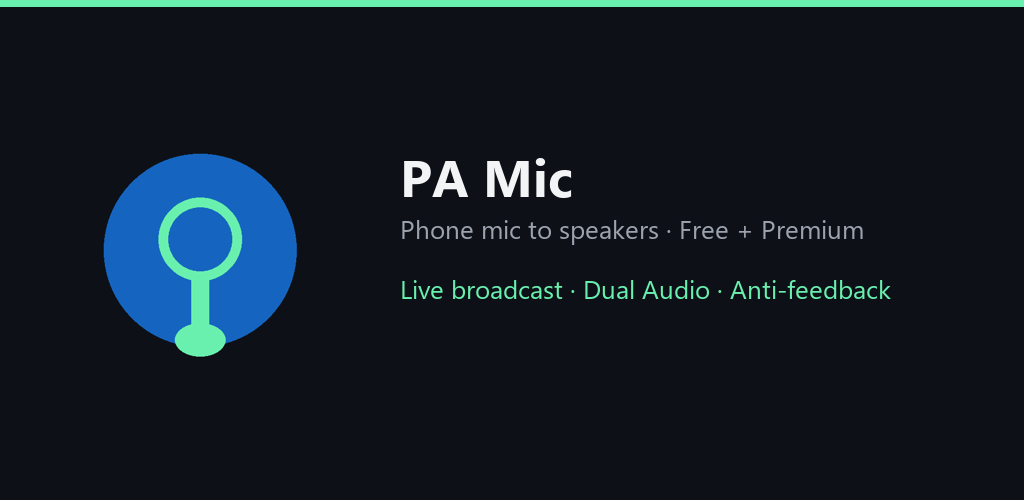
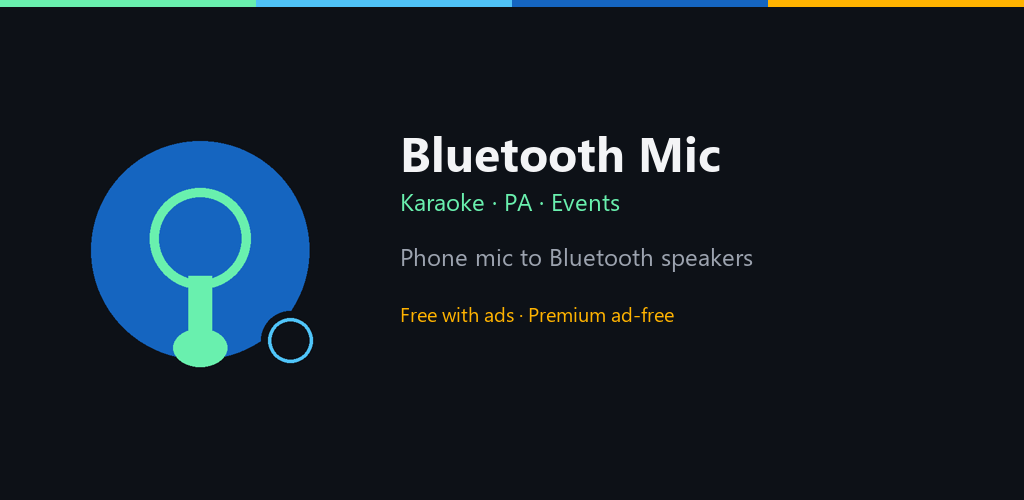
Rename branding to Bluetooth Mic - Karaoke and PA

diff --git a/index.html b/index.html
@@ -3,10 +3,10 @@
 <head>
   <meta charset="utf-8" />
   <meta name="viewport" content="width=device-width, initial-scale=1" />
-  <title>PA Mic — phone microphone to speakers</title>
-  <meta name="description" content="PA Mic by Lucky Tools. Speak into your phone and broadcast your voice to Bluetooth or phone speakers. Free with ads, or Premium ad-free." />
-  <meta property="og:title" content="PA Mic" />
-  <meta property="og:description" content="Turn your phone into a PA mic for outdoor speaking and events." />
+  <title>Bluetooth Mic - Karaoke &amp; PA — phone mic to speakers</title>
+  <meta name="description" content="Bluetooth Mic by Lucky Tools. Karaoke, PA and events — speak into your phone, play on Bluetooth speakers. Free with ads or Premium ad-free." />
+  <meta property="og:title" content="Bluetooth Mic - Karaoke &amp; PA" />
+  <meta property="og:description" content="Phone mic to Bluetooth speakers for karaoke, parties and outdoor speaking." />
   <meta property="og:image" content="assets/feature_graphic.png" />
   <link rel="stylesheet" href="styles.css" />
   <link rel="icon" type="image/png" href="assets/icon_512.png" />
@@ -17,7 +17,7 @@
     <div class="inner">
       <a class="brand" href="index.html">
         <span class="brand-mark"><img src="assets/icon_512.png" alt="" width="40" height="40" /></span>
-        PA Mic
+        Bluetooth Mic
       </a>
       <nav class="nav" aria-label="Main">
         <a href="index.html" aria-current="page">Home</a>
@@ -32,17 +32,17 @@
   <main class="wrap">
     <section class="hero">
       <div>
-        <h1>Your phone is the mic. Speakers do the rest.</h1>
+        <h1>Bluetooth microphone for karaoke, PA &amp; events</h1>
         <p class="lede">
-          <strong>PA Mic</strong> routes your voice from the phone microphone to connected
-          speakers — great for outdoor talks, yard sales, small events, and practice.
-          Audio stays on your device. No account required.
+          <strong>Bluetooth Mic - Karaoke &amp; PA</strong> turns your phone into a live mic:
+          speak into the phone and hear yourself on Bluetooth (or phone) speakers.
+          Dual Audio on many phones supports two speakers. No account required.
         </p>
         <div class="badge-row">
-          <span class="badge accent">Live broadcast</span>
+          <span class="badge accent">Karaoke</span>
+          <span class="badge">Outdoor PA</span>
           <span class="badge">Bluetooth Dual Audio</span>
-          <span class="badge">Anti-feedback</span>
-          <span class="badge">Android</span>
+          <span class="badge">Events</span>
         </div>
         <div class="btn-row">
           <a class="btn btn-primary" href="privacy.html">Privacy policy</a>
@@ -51,26 +51,24 @@
         </div>
       </div>
       <div>
-        <img class="hero-feature" src="assets/feature_graphic.png" width="1024" height="500" alt="PA Mic — speak into your phone, play on speakers" />
+        <img class="hero-feature" src="assets/feature_graphic.png" width="1024" height="500" alt="Bluetooth Mic - Karaoke and PA" />
       </div>
     </section>
 
     <section class="section" id="features">
-      <div class="section-head">
-        <h2>What you get</h2>
-      </div>
+      <div class="section-head"><h2>What you get</h2></div>
       <div class="grid-2">
         <article class="card">
-          <h3>Start / stop broadcast</h3>
-          <p>One tap to go live. Foreground service keeps audio running while the screen is on.</p>
+          <h3>Karaoke &amp; music practice</h3>
+          <p>Use your phone as the mic and Bluetooth speakers as the PA for home karaoke nights.</p>
         </article>
         <article class="card">
-          <h3>Public speaking mode</h3>
-          <p>Outdoor profile: steadier stream, wind-friendly filtering, speech limiter.</p>
+          <h3>Speaking at events</h3>
+          <p>Outdoor talks, coaching, yard sales, tours — public speaking mode helps clarity.</p>
         </article>
         <article class="card">
           <h3>Audio protection</h3>
-          <p>Echo cancellation, anti-feedback guard, optional noise gate, and voice gain.</p>
+          <p>Echo cancellation, anti-feedback guard, optional noise gate, voice volume.</p>
         </article>
         <article class="card">
           <h3>Speaker awareness</h3>
@@ -80,50 +78,29 @@
     </section>
 
     <section class="section">
-      <div class="section-head">
-        <h2>Free + Premium</h2>
-      </div>
+      <div class="section-head"><h2>Free + Premium</h2></div>
       <div class="card" style="overflow-x:auto">
         <table class="tier-table">
           <thead>
-            <tr><th></th><th>Free</th><th>Premium (subscription)</th></tr>
+            <tr><th></th><th>Free</th><th>Premium</th></tr>
           </thead>
           <tbody>
+            <tr>
+              <td>Play name</td>
+              <td colspan="2"><strong>Bluetooth Mic - Karaoke &amp; PA</strong></td>
+            </tr>
             <tr>
               <td>Package</td>
               <td colspan="2"><code>com.btcmic.pamic</code></td>
             </tr>
-            <tr><td>Core PA mic features</td><td>Yes</td><td>Yes</td></tr>
+            <tr><td>Core mic features</td><td>Yes</td><td>Yes</td></tr>
             <tr><td>Banner ads</td><td>Yes</td><td>No</td></tr>
-            <tr><td>Full-screen ads</td><td>Yes — about every 90s, including while live</td><td>No</td></tr>
-            <tr><td>Price</td><td>Free</td><td>Monthly via Google Play</td></tr>
-            <tr><td>Product ID</td><td>—</td><td><code>pamic_premium</code></td></tr>
+            <tr><td>Full-screen ads</td><td>About every 90s (incl. while live)</td><td>No</td></tr>
+            <tr><td>Subscription ID</td><td>—</td><td><code>pamic_premium</code></td></tr>
           </tbody>
         </table>
       </div>
     </section>
-
-    <section class="section">
-      <div class="section-head"><h2>Privacy &amp; trust</h2></div>
-      <div class="grid-2">
-        <article class="card">
-          <h3>Microphone</h3>
-          <p>Used only while broadcasting. Not recorded, not stored, not uploaded to Lucky Tools.</p>
-        </article>
-        <article class="card">
-          <h3>Ads (free)</h3>
-          <p>Google AdMob may use advertising ID for ads. Premium removes all ads. Support: [email redacted]</p>
-        </article>
-      </div>
-    </section>
-
-    <article class="card" style="margin-top:1.5rem">
-      <h3>Safety</h3>
-      <p>
-        Mind volume and feedback. Keep distance from speakers. Not a professional certified PA system —
-        use responsibly and respect local noise rules.
-      </p>
-    </article>
 
     <footer class="site-footer">
       <p>© <span id="y"></span> Lucky Tools ·

diff --git a/privacy.html b/privacy.html
@@ -3,8 +3,8 @@
 <head>
   <meta charset="utf-8" />
   <meta name="viewport" content="width=device-width, initial-scale=1" />
-  <title>Privacy Policy — PA Mic</title>
-  <meta name="description" content="Privacy policy for PA Mic Android app. Mic for live speaker broadcast; optional AdMob ads and Premium subscription." />
+  <title>Privacy Policy — Bluetooth Mic - Karaoke &amp; PA</title>
+  <meta name="description" content="Privacy policy for Bluetooth Mic Android app. Live mic to speakers for karaoke and PA; optional AdMob ads and Premium." />
   <link rel="stylesheet" href="styles.css" />
   <link rel="icon" type="image/png" href="assets/icon_512.png" />
 </head>
@@ -13,7 +13,7 @@
     <div class="inner">
       <a class="brand" href="index.html">
         <span class="brand-mark"><img src="assets/icon_512.png" alt="" width="40" height="40" /></span>
-        PA Mic
+        Bluetooth Mic
       </a>
       <nav class="nav">
         <a href="index.html">Home</a>
@@ -27,7 +27,7 @@
   <main class="wrap doc">
     <h1>Privacy Policy</h1>
     <p class="doc-meta">
-      <strong>PA Mic</strong><br />
+      <strong>Bluetooth Mic - Karaoke &amp; PA</strong> (also known as PA Mic)<br />
       Android package: <code>com.btcmic.pamic</code><br />
       Operator: <strong>Lucky Tools</strong><br />
       Effective date: 16 July 2026<br />
@@ -41,13 +41,13 @@
     </div>
 
     <h2>1. Who we are</h2>
-    <p>PA Mic is published by Lucky Tools on Google Play.</p>
+    <p>Bluetooth Mic - Karaoke &amp; PA is published by Lucky Tools on Google Play.</p>
 
     <h2>2. Microphone</h2>
     <p>
-      PA Mic requests microphone permission to pass your voice through to connected
-      speakers (phone speaker or Bluetooth). Processing is local and real-time.
-      We do not operate a cloud that receives your audio.
+      The app requests microphone permission to pass your voice through to connected
+      speakers (phone speaker or Bluetooth) for karaoke, PA and events.
+      Processing is local and real-time. We do not operate a cloud that receives your audio.
     </p>
 
     <h2>3. On-device data</h2>
@@ -97,7 +97,7 @@
 
     <h2>11. Contact</h2>
     <p>
-      Lucky Tools — PA Mic<br />
+      Lucky Tools — Bluetooth Mic<br />
       <a href="mailto:[email redacted]">[email redacted]</a>
     </p>
   </main>

diff --git a/terms.html b/terms.html
@@ -3,7 +3,7 @@
 <head>
   <meta charset="utf-8" />
   <meta name="viewport" content="width=device-width, initial-scale=1" />
-  <title>Terms of Use — PA Mic</title>
+  <title>Terms of Use — Bluetooth Mic - Karaoke &amp; PA</title>
   <link rel="stylesheet" href="styles.css" />
   <link rel="icon" type="image/png" href="assets/icon_512.png" />
 </head>
@@ -12,7 +12,7 @@
     <div class="inner">
       <a class="brand" href="index.html">
         <span class="brand-mark"><img src="assets/icon_512.png" alt="" width="40" height="40" /></span>
-        PA Mic
+        Bluetooth Mic
       </a>
       <nav class="nav">
         <a href="index.html">Home</a>
@@ -26,16 +26,17 @@
   <main class="wrap doc">
     <h1>Terms of Use</h1>
     <p class="doc-meta">
-      PA Mic · Lucky Tools · Effective 16 July 2026<br />
+      Bluetooth Mic - Karaoke &amp; PA · Lucky Tools · Effective 16 July 2026<br />
       Package: <code>com.btcmic.pamic</code><br />
       Contact: <a href="mailto:[email redacted]">[email redacted]</a>
     </p>
 
-    <p>By using PA Mic you agree to these Terms and the <a href="privacy.html">Privacy Policy</a>.</p>
+    <p>By using this app you agree to these Terms and the <a href="privacy.html">Privacy Policy</a>.</p>
 
     <h2>1. The app</h2>
     <p>
-      PA Mic is a freemium Android app: free download with optional ads, and an optional
+      Bluetooth Mic - Karaoke &amp; PA is a freemium Android app for phone-mic to speaker
+      broadcast (karaoke, events, outdoor speaking): free download with optional ads, and an optional
       monthly Premium subscription that removes ads while active.
     </p>
 

diff --git a/delete-data.html b/delete-data.html
@@ -3,7 +3,7 @@
 <head>
   <meta charset="utf-8" />
   <meta name="viewport" content="width=device-width, initial-scale=1" />
-  <title>Request data deletion — PA Mic</title>
+  <title>Request data deletion — Bluetooth Mic</title>
   <link rel="stylesheet" href="styles.css" />
   <link rel="icon" type="image/png" href="assets/icon_512.png" />
 </head>
@@ -12,7 +12,7 @@
     <div class="inner">
       <a class="brand" href="index.html">
         <span class="brand-mark"><img src="assets/icon_512.png" alt="" width="40" height="40" /></span>
-        PA Mic
+        Bluetooth Mic
       </a>
       <nav class="nav">
         <a href="index.html">Home</a>
@@ -26,14 +26,14 @@
   <main class="wrap doc">
     <h1>Request data deletion</h1>
     <p class="doc-meta">
-      App: PA Mic · Lucky Tools<br />
+      App: Bluetooth Mic - Karaoke &amp; PA · Lucky Tools<br />
       Package: <code>com.btcmic.pamic</code><br />
-      Contact: <a href="mailto:[email redacted]?subject=PA%20Mic%20data%20deletion">[email redacted]</a>
+      Contact: <a href="mailto:[email redacted]?subject=Bluetooth%20Mic%20data%20deletion">[email redacted]</a>
     </p>
 
     <h2>Steps</h2>
     <ol>
-      <li><strong>Clear storage / uninstall</strong> PA Mic on your Android device (removes local preferences immediately).</li>
+      <li><strong>Clear storage / uninstall</strong> the app on your Android device (removes local preferences immediately).</li>
       <li><strong>Premium subscription:</strong> cancel or manage in Google Play → Payments &amp; subscriptions. Payment records stay with Google.</li>
       <li><strong>Ads:</strong> AdMob data is controlled via Google’s ad settings and tools.</li>
       <li><strong>Email us</strong> if you need confirmation we hold no other personal data about you.</li>